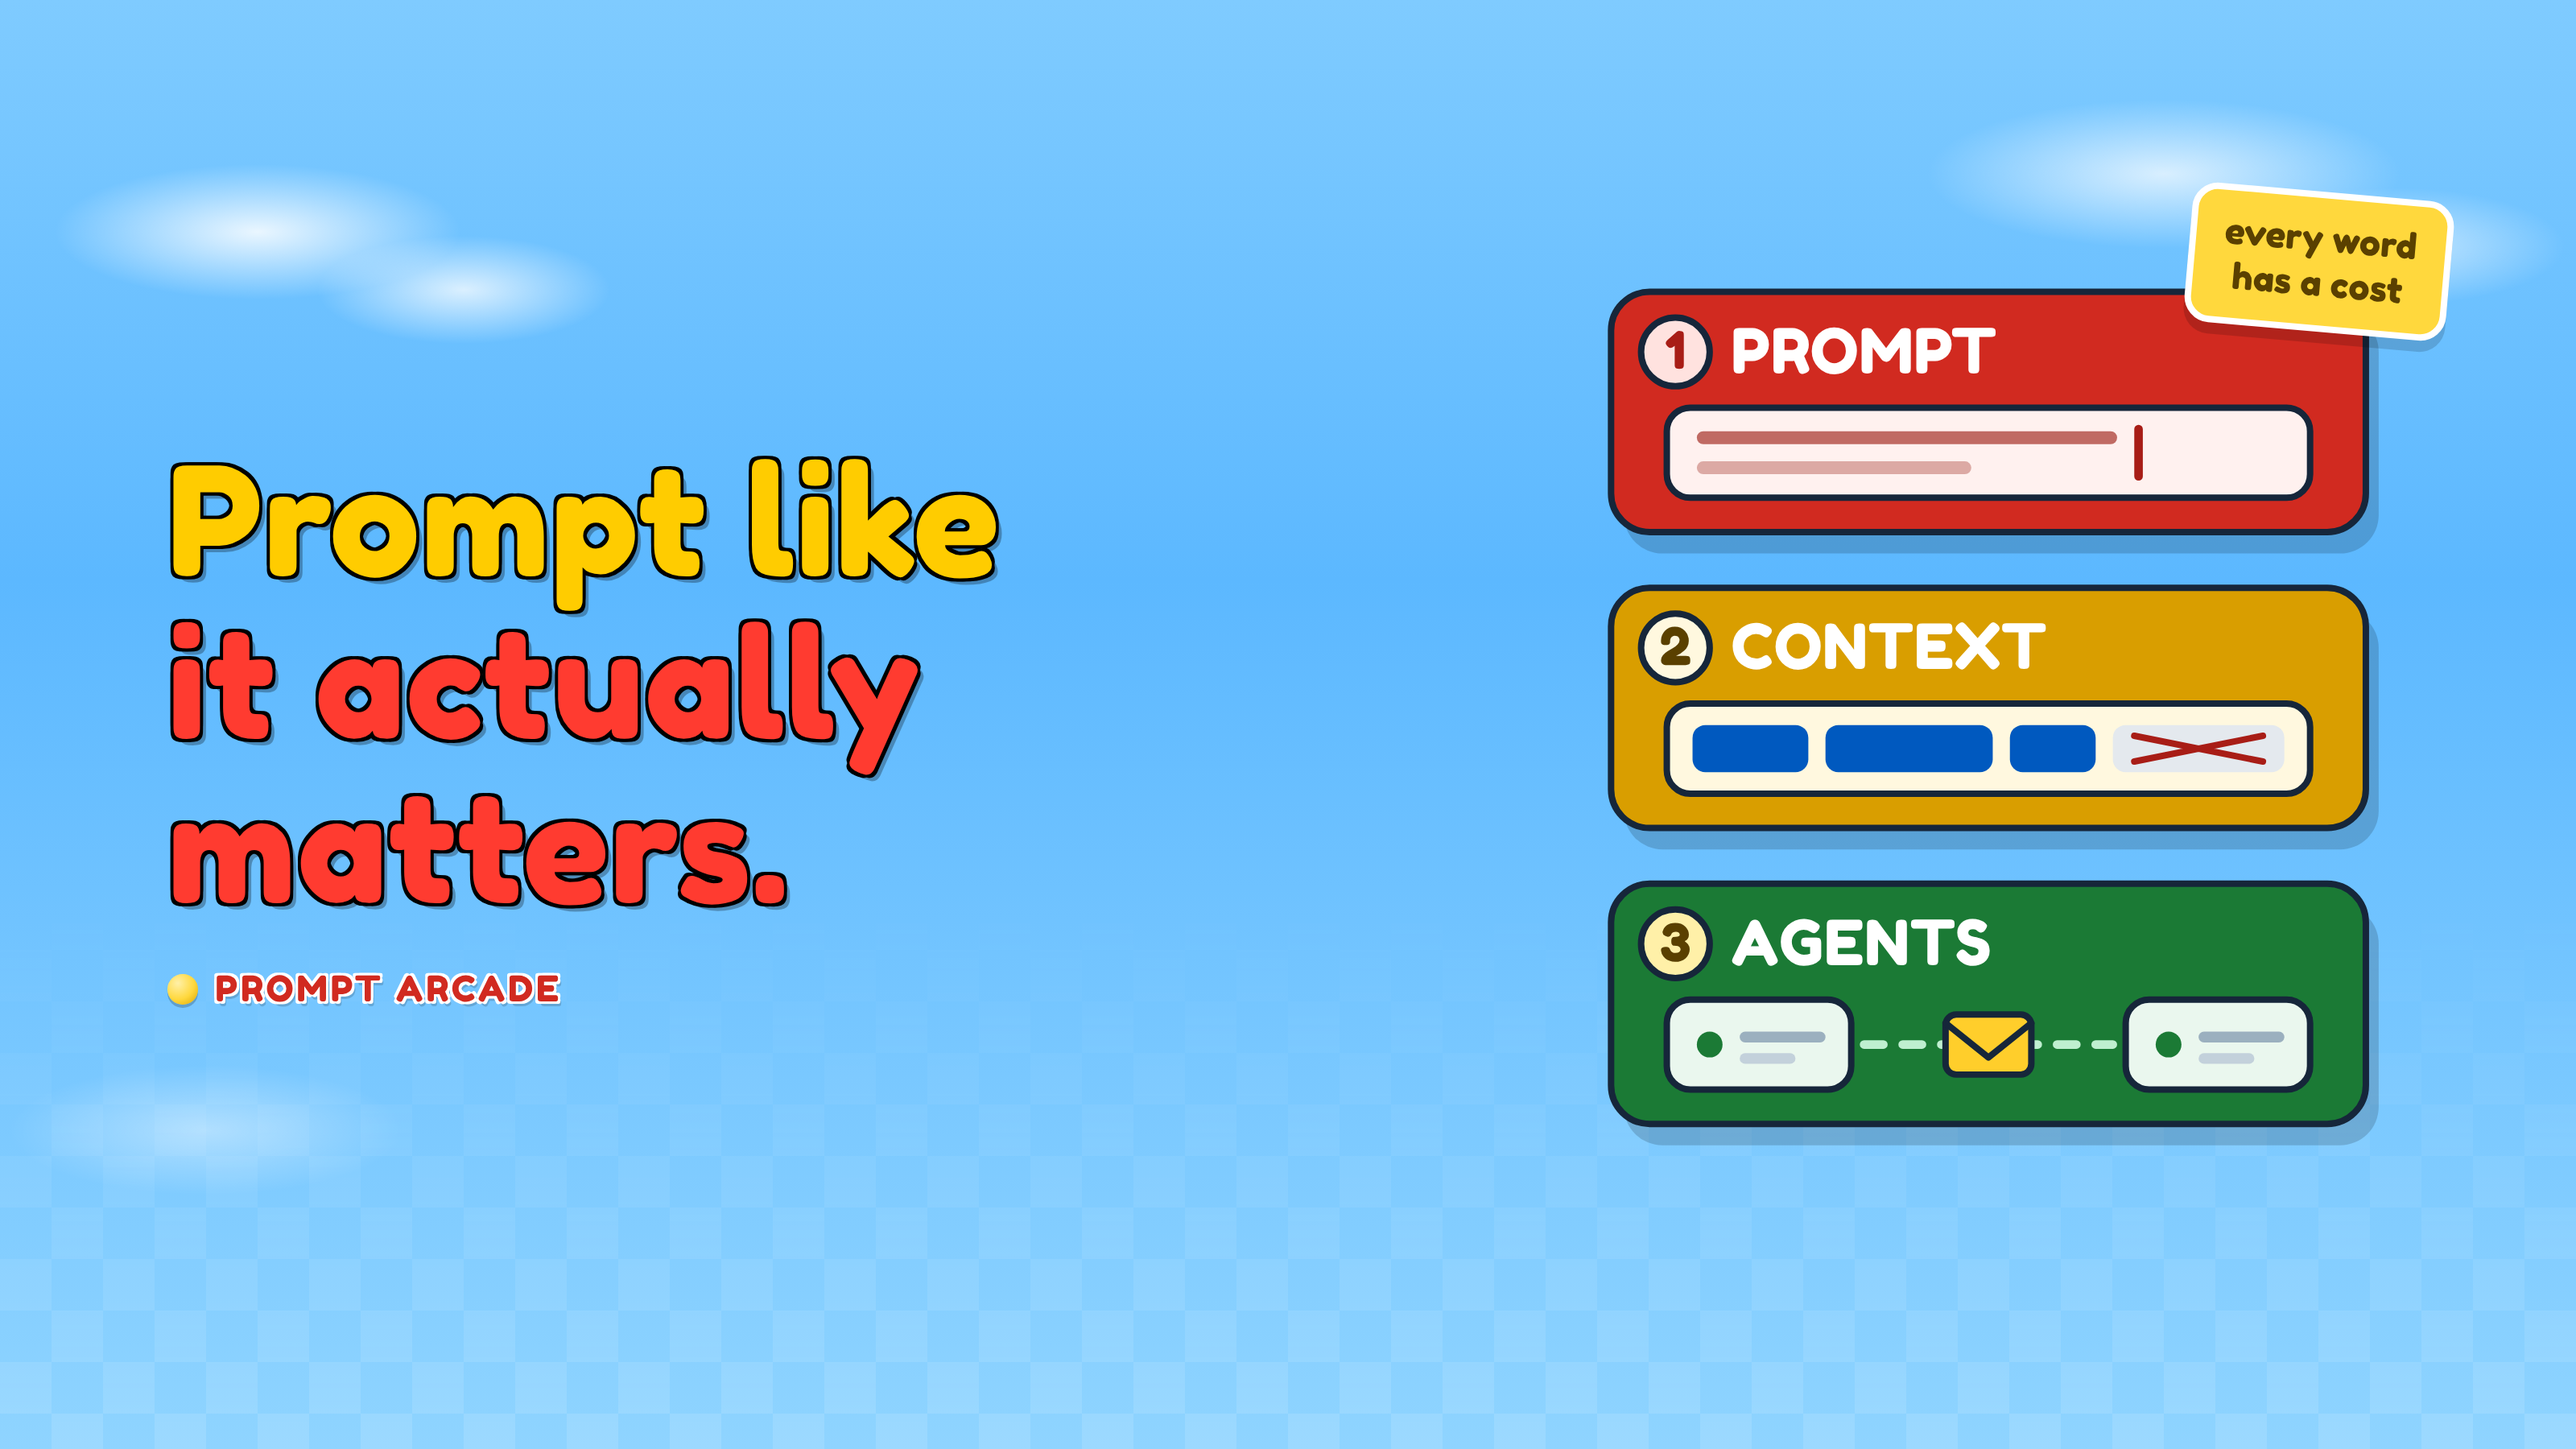
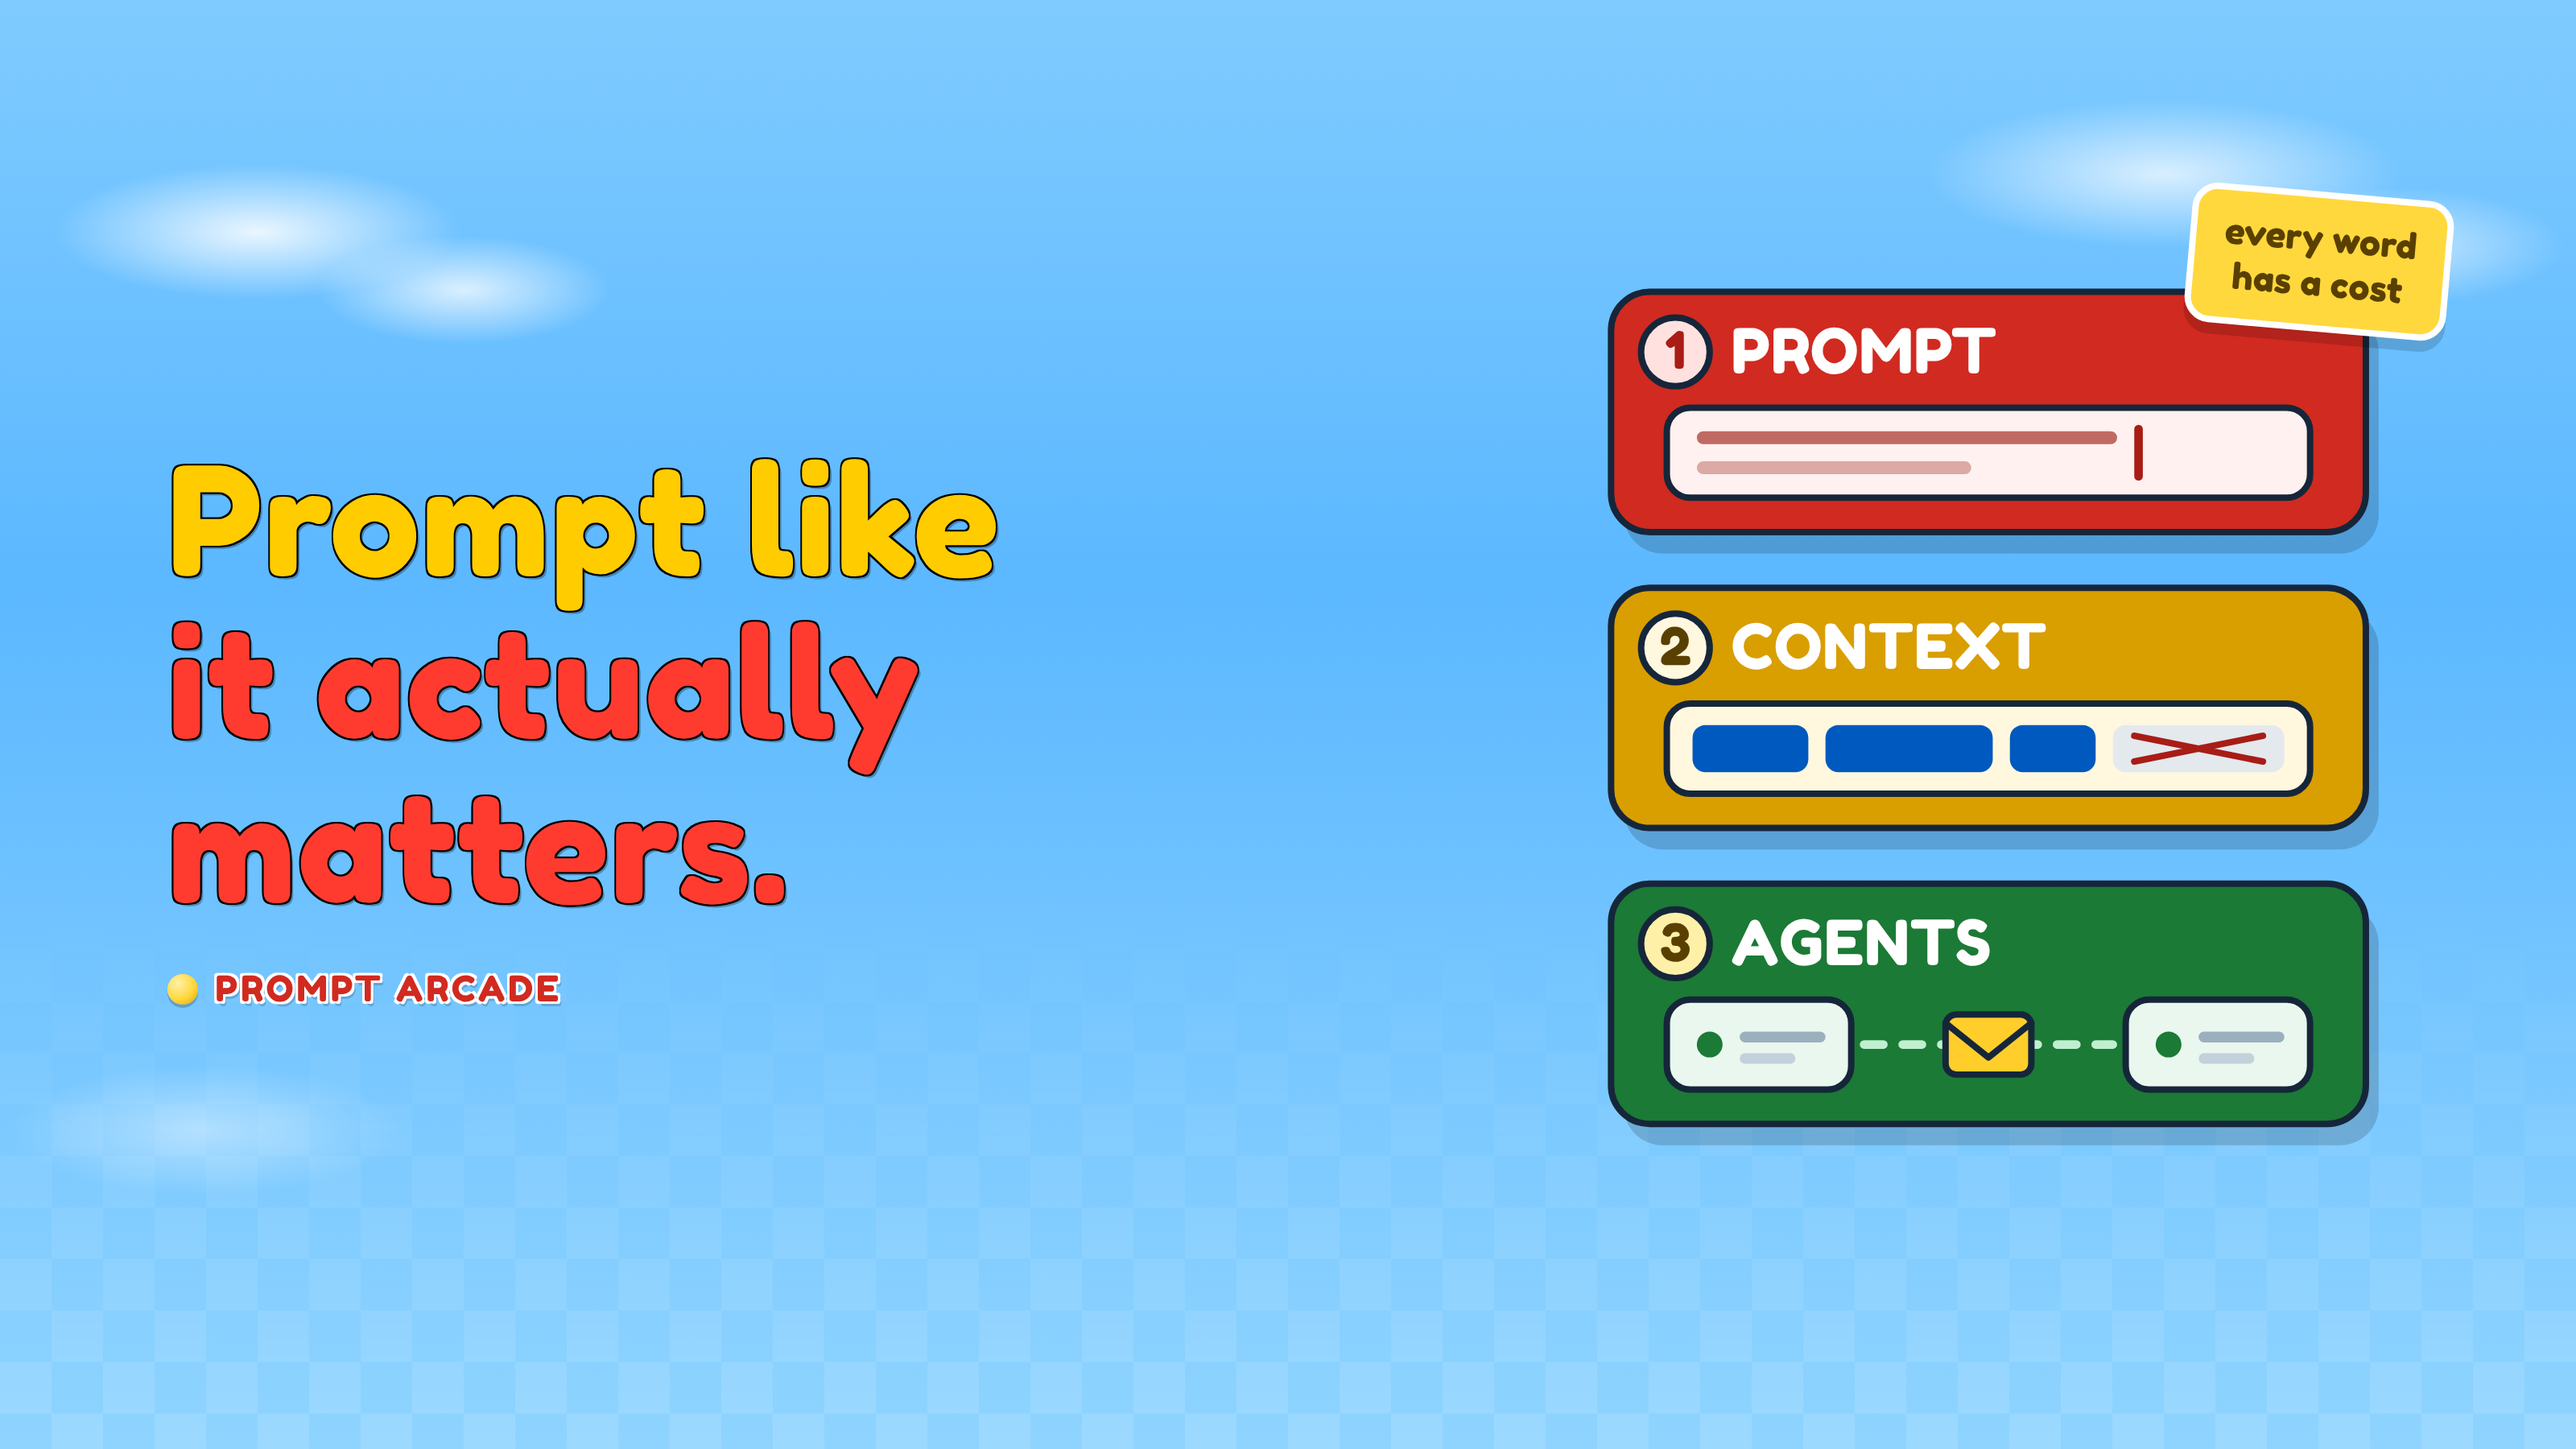
Take the heading outline down to a hairline
Outline 1px to 0.5px, drop 2px to 1px on headings and 2px 3px to
1px 2px on the score numeral. The share card scales its outline with
font size, so 0.020 to 0.010 keeps it matched.

Worth knowing rather than discovering later: 0.5px is a sub-pixel
offset. On a 2x screen it renders as a true half pixel and stays crisp;
on a 1x one the browser antialiases it into a soft grey edge rather
than a black line. Checked both, at 62px and at 21px — it holds at
each, and the softer 1x edge still separates the glyph from the sky.

That separation is the whole job: #FFCC00 on #5CB8FF is 1.42:1 unaided,
so the outline is what a reader actually uses and what a ratio formula
cannot see. A hairline is the least of it that still works, and the
comment in the stylesheet now says so, so the next person to thin it
knows what they are spending.

The home page's note drops the pixel figure and says "a hairline
outline", which stays true at whatever the value settles at.

Verified: six pages at 390/768/1440 with no horizontal scroll,
offscreen element, 404 or console error; contrast unchanged at 12 AA
failures, all of them these headings; computed values confirmed live on
both the headings and the score numeral; share card regenerated; 64
assertions passing.

Claude-Session: https://claude.ai/code/session_01SL6rPHeqmUijfDehgMfwWV

diff --git a/public/css/mario.css b/public/css/mario.css
@@ -147,11 +147,12 @@ h1, h2, h3, .brand, .score-num, .why-card .num, .tier-badge .tier-name,
 }
 h1, h2, h3 {
   color: var(--yellow);
-  /* The outline is what makes gold legible on sky — 1.42:1 unaided —
-     so it stays, at half its old weight. The drop halves with it: a 4px
-     offset under a 1px outline reads as a smear, not as extrusion. */
-  text-shadow: -1px -1px 0 #000, 1px -1px 0 #000, -1px 1px 0 #000, 1px 1px 0 #000,
-               2px 2px 0 rgba(0,0,0,.28);
+  /* The outline is what makes gold legible on sky — 1.42:1 unaided.
+     At 0.5px it is a sub-pixel offset: crisp on a 2x screen, softened
+     into a grey halo by antialiasing on a 1x one. Kept at the weight
+     asked for; the tradeoff is recorded rather than silently undone. */
+  text-shadow: -0.5px -0.5px 0 #000, 0.5px -0.5px 0 #000, -0.5px 0.5px 0 #000, 0.5px 0.5px 0 #000,
+               1px 1px 0 rgba(0,0,0,.28);
 }
 h1 { font-size: clamp(38px, 5.5vw, 62px); }
 h2 { font-size: clamp(27px, 3.4vw, 38px); }
@@ -488,7 +489,7 @@ main.wrap > p {
 
 .score-head { display: flex; align-items: center; gap: 22px; flex-wrap: wrap; margin-bottom: 22px; padding-bottom: 18px; border-bottom: 3px dashed rgba(0,0,0,.12); }
 .score-num { font-size: 50px; color: var(--coin); line-height: 1;
-  text-shadow: -1px -1px 0 #000, 1px -1px 0 #000, -1px 1px 0 #000, 1px 1px 0 #000, 2px 3px 0 rgba(0,0,0,.25); }
+  text-shadow: -0.5px -0.5px 0 #000, 0.5px -0.5px 0 #000, -0.5px 0.5px 0 #000, 0.5px 0.5px 0 #000, 1px 2px 0 rgba(0,0,0,.25); }
 .score-lbl { font-size: 12px; color: var(--text-faint); font-weight: 800; text-transform: uppercase; letter-spacing: .1em; }
 .stars { font-size: 26px; letter-spacing: 4px; }
 .star-on { color: var(--coin); } .star-off { color: #D6DCE2; }

diff --git a/public/index.html b/public/index.html
@@ -266,7 +266,7 @@
       <h3>How this was built</h3>
       <dl>
         <dt>Accessibility</dt>
-        <dd>Every visible text node measured against its effective background across all five pages. 70 WCAG AA failures found, 58 fixed. White prose on the sky measured 2.15:1; near-black on the same sky measures about 9:1, so the first instinct was wrong. The 12 that remain are gold headings carried by a 1px outline the ratio formula cannot see, and are reported rather than "fixed" into something less legible.</dd>
+        <dd>Every visible text node measured against its effective background across all five pages. 70 WCAG AA failures found, 58 fixed. White prose on the sky measured 2.15:1; near-black on the same sky measures about 9:1, so the first instinct was wrong. The 12 that remain are gold headings carried by a hairline outline the ratio formula cannot see, and are reported rather than "fixed" into something less legible.</dd>
 
         <dt>Scoring integrity</dt>
         <dd>Scoring runs on the server, so the rubrics and the reference answer never reach the browser — the only way to find out what a level rewards is to attempt it. Two engines sit behind the same endpoint. The one running now is pattern matching, which is instant and free and cannot tell whether an instruction does what a criterion asks, only whether the words are present. The other reads the attempt and has to quote the span of your prompt that earned each point, with the server checking the quote is really there; it is built and switches on with an API key.</dd>

diff --git a/scripts/thumbnail/card.html b/scripts/thumbnail/card.html
@@ -69,11 +69,11 @@
     letter-spacing: .5px;
     color: var(--yellow);
     text-shadow:
-      calc(var(--h1) * -0.020) calc(var(--h1) * -0.020) 0 #000,
-      calc(var(--h1) *  0.020) calc(var(--h1) * -0.020) 0 #000,
-      calc(var(--h1) * -0.020) calc(var(--h1) *  0.020) 0 #000,
-      calc(var(--h1) *  0.020) calc(var(--h1) *  0.020) 0 #000,
-      calc(var(--h1) *  0.040) calc(var(--h1) *  0.040) 0 rgba(0,0,0,.28);
+      calc(var(--h1) * -0.010) calc(var(--h1) * -0.010) 0 #000,
+      calc(var(--h1) *  0.010) calc(var(--h1) * -0.010) 0 #000,
+      calc(var(--h1) * -0.010) calc(var(--h1) *  0.010) 0 #000,
+      calc(var(--h1) *  0.010) calc(var(--h1) *  0.010) 0 #000,
+      calc(var(--h1) *  0.020) calc(var(--h1) *  0.020) 0 rgba(0,0,0,.28);
   }
   h1 .red { color: var(--red); }
 
